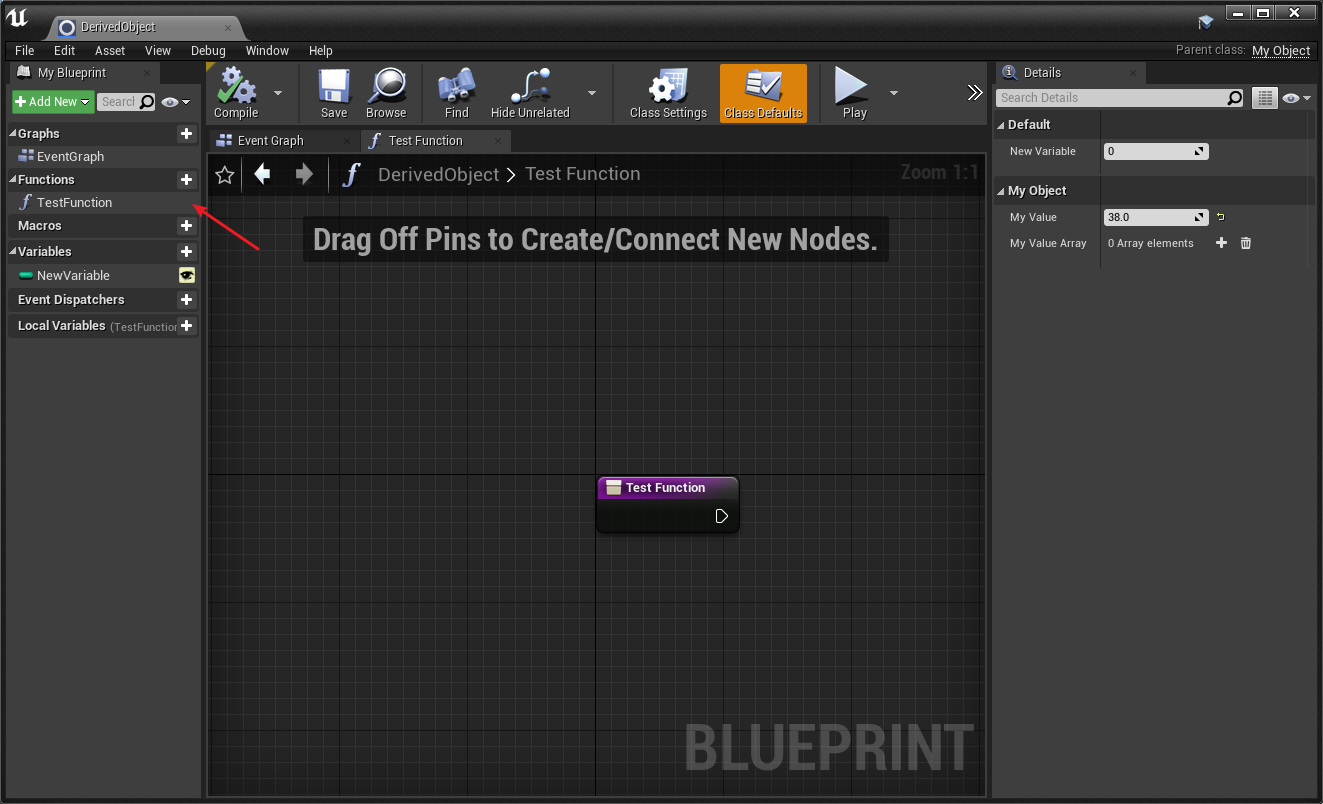
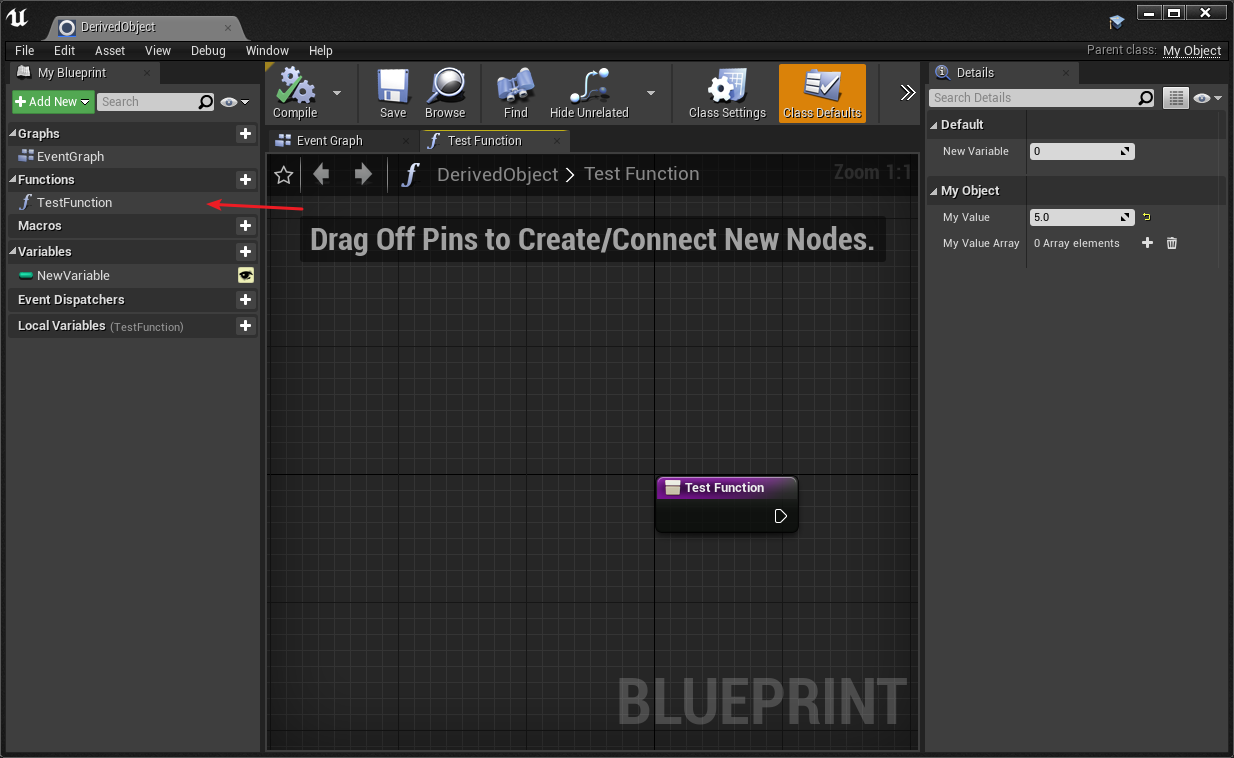
Remove unused image; Minor corrections to ue basics post

Changed region(s): [[0.0, 0.0, 1.0, 1.0], [0.4927, 0.8799, 0.7391, 0.971], [0.4311, 0.5765, 0.6467, 0.7282]]

diff --git a/_posts/2021-02-14-unreal-engine-basics-and-base-classes.md b/_posts/2021-02-14-unreal-engine-basics-and-base-classes.md
@@ -317,7 +317,7 @@ If you peek a few lines below `SuperStruct`, you can see the `Children` and `Chi
 
 Finally, you can see two extra things: The `ClassGeneratedBy` field of this `UBlueprintGeneratedClass` points at our `UBlueprint` asset we saw at the content browser. Also, we can see at the very bottom of this image how the `UBlueprintGeneratedClass` is pointing at the CDO of `DerivedObject` that we retrieved on the previous image.
 
-Lets try modifying our `DerivedObject` a little bit. I'll add an extra empty function, a variable, and change the CDO value for `MyValue`. You can also see the CDO's value for the `NewVariable` on the right pane:
+Lets try modifying our `DerivedObject` a little bit. I'll add an extra empty function (pointed in red), a variable, and change the CDO value for `MyValue` to `5.0f`. You can also see the CDO's value for the `NewVariable` on the right pane:
 
 ![BlueprintGeneratedClass](/assets/images/unreal-engine-basics-and-base-classes/edited-derived-object-bp.png)
 
